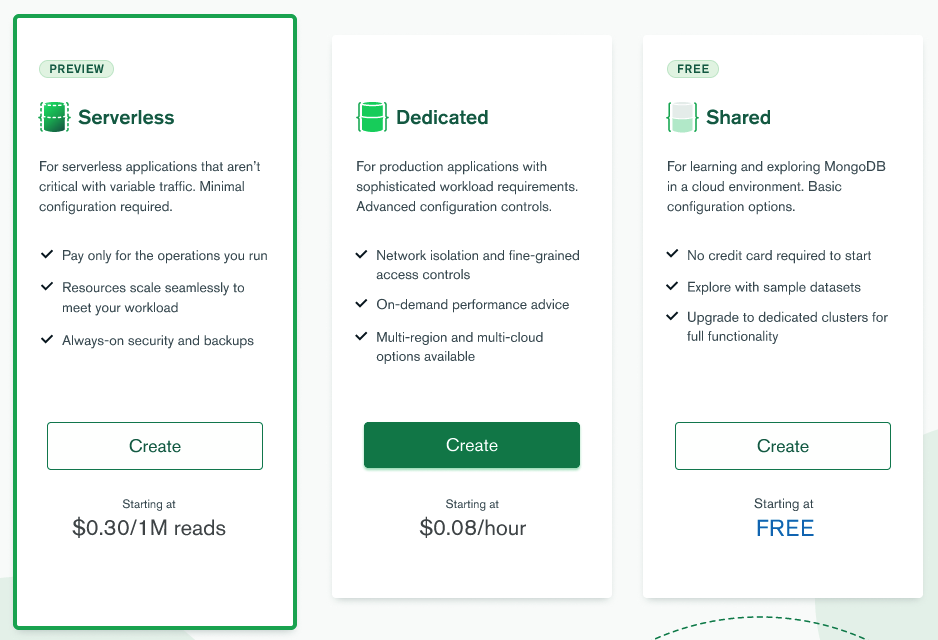
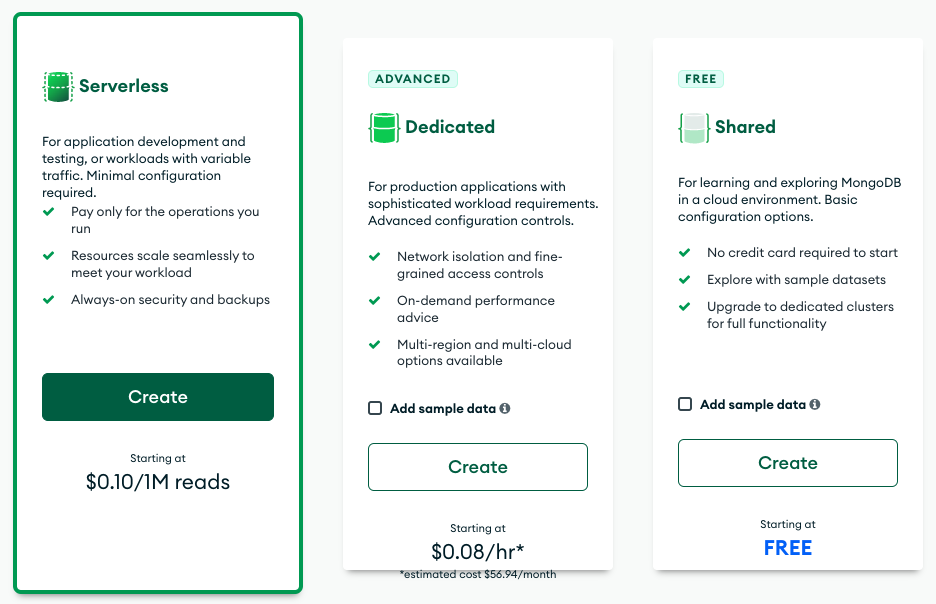
feature-serverless-remove-preview (#3365)
* (DOCSP-22765) Removes mentions of preview for serverless, billing change (#3325)

* (DOCSP-22943) Updates screenshot of database deployment types (#3334)

* (DOCSP-22843) Updated Serverless feature pricing to reflect GA model.

* (DOCSP-22843) Updated Serverless feature pricing to reflect GA model.

* (DOCSP-22843) Updated Serverless feature pricing to reflect GA model.

* Update source/billing/serverless-instance-costs.txt

* Update source/billing/serverless-instance-costs.txt

* Update source/billing/serverless-instance-costs.txt

* Update source/billing/serverless-instance-costs.txt

* Update source/billing/serverless-instance-costs.txt

* Update source/billing/serverless-instance-costs.txt

* Update source/billing/serverless-instance-costs.txt

* Update source/billing/serverless-instance-costs.txt

* (DOCSP-22843) Incorporated feedback from J. Williams, Z. Carr, B. Poserow.

* (DOCSP-22843) Removed 'prorated' from pricing for certain features not explicitly described as such in the ref.

* (DOCSP-22843) Changed comment in accordance with feedback from B. Poserow.

diff --git a/source/includes/serverless-preview-dont-use.rst b/source/includes/serverless-preview-dont-use.rst
@@ -1,5 +1,7 @@
 
-.. note:: {+Serverless-Instances+} are in Preview
+.. important:: Feature unavailable in {+Serverless-Instances+}
 
-   {+Serverless-instances+} are in preview and do not support this
-   feature at this time. To learn more, see :doc:`{+Serverless-Instance+} Limitations </reference/serverless-instance-limitations/>`.
+   {+Serverless-instances+} don't support this
+   feature at this time. To learn more, see 
+   :doc:`{+Serverless-Instance+} Limitations 
+   </reference/serverless-instance-limitations/>`.

diff --git a/source/includes/serverless-features-not-supported.rst b/source/includes/serverless-features-not-supported.rst
@@ -1,7 +1,7 @@
 .. _atlas-serverless-limits-csp:
 
-{+Serverless-instances+} don't currently support the following 
-|service| features. If you require the following capabilities, use a 
+{+Serverless-instances+} don't currently support the
+|service| features listed below. If you require these capabilities, please use a
 :doc:`{+dedicated-cluster+} </tutorial/create-new-cluster>`.
 
 {+Serverless-instances+} don't support some features even though they 

diff --git a/source/includes/serverless-driver-options.rst b/source/includes/serverless-driver-options.rst
@@ -1,7 +1,6 @@
 
-.. note:: {+Serverless-Instances+} are in Preview
+.. note::
 
-  {+Serverless-instances+} are in preview and do not support connecting via certain drivers or
-  driver versions at
-  this time. To learn more, see
+  {+Serverless-instances+} don't support connecting via certain drivers
+  or driver versions at this time. To learn more, see
   :doc:`{+Serverless-Instance+} Limitations </reference/serverless-instance-limitations>`.

diff --git a/source/includes/note-serverless-in-preview-release.rst b/source/includes/note-serverless-in-preview-release.rst
@@ -1,6 +1,6 @@
 .. note::
 
-   {+Serverless-instances+} are in a preview release and do not support
-   some |service| features at this time. 
+   {+Serverless-instances+} don't support some |service|
+   features at this time. 
 
    To learn more, see :doc:`{+Serverless-Instance+} Limitations </reference/serverless-instance-limitations/>`.
